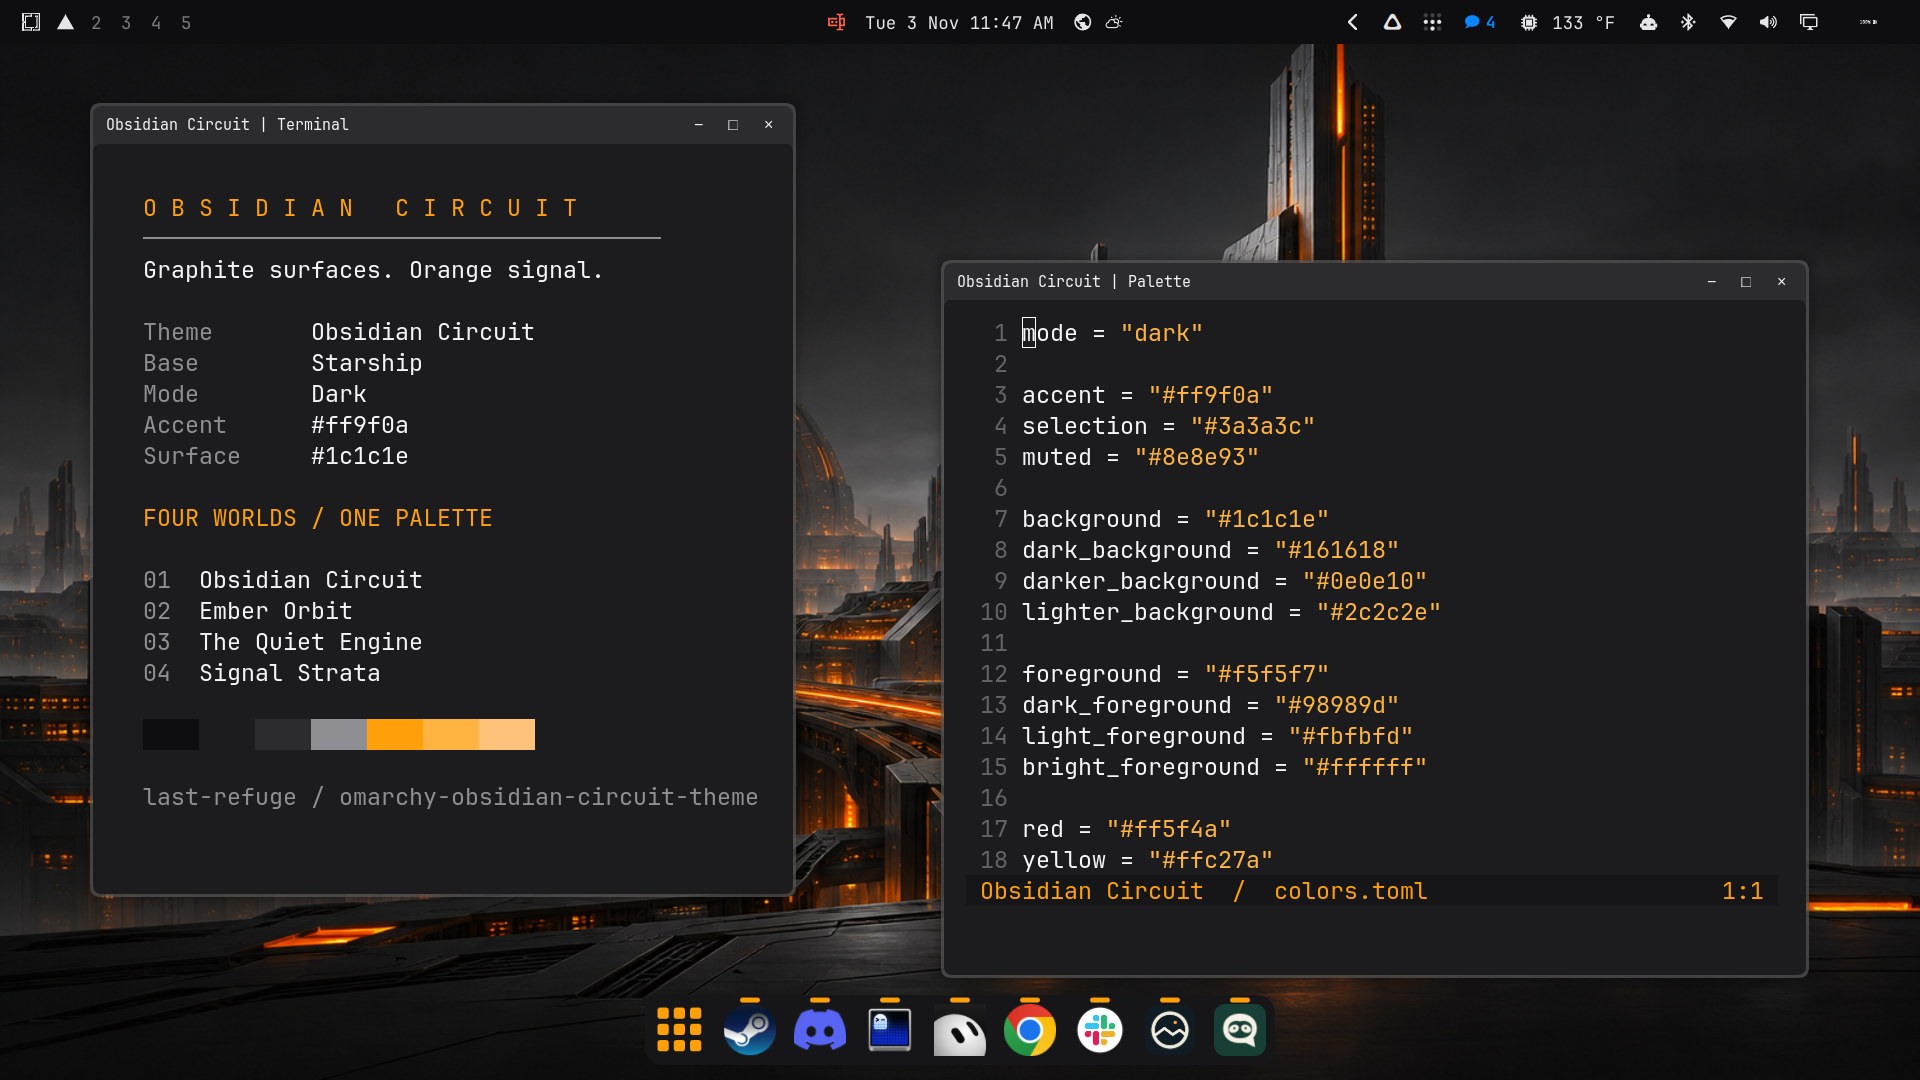
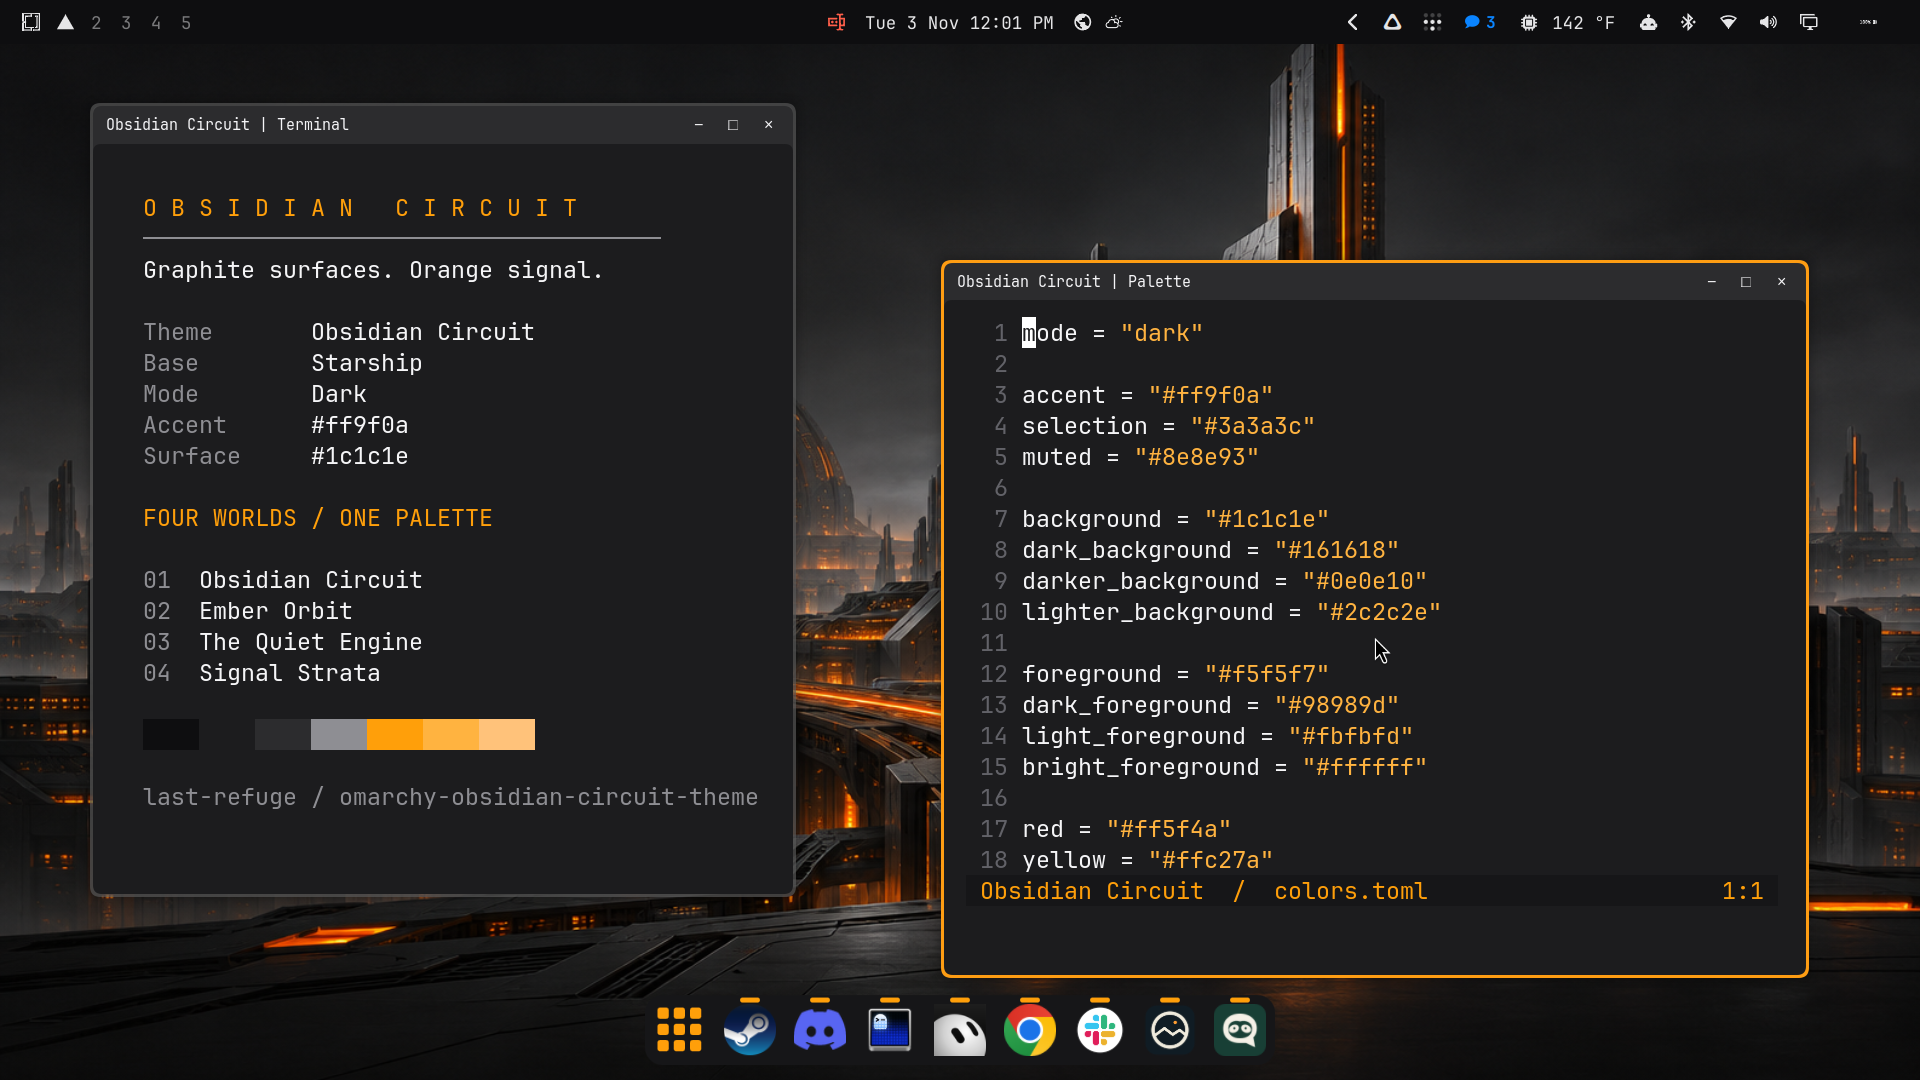
Show orange active-window border in theme preview

Changed region(s): [[0.5312, 0.3056, 0.5625, 0.3361], [0.5, 0.0, 0.5312, 0.0306]]

diff --git a/docs/VALIDATION.md b/docs/VALIDATION.md
@@ -26,8 +26,8 @@ The patch passes a dry run with `--fuzz=0`, applies exactly to the base, produce
 
 ## Preview
 
-`preview.png` is a 1920 × 1080 capture from a temporary virtual display in a real running Omarchy/Hyprland session. The display contained only a terminal showing theme demonstration content and Neovim showing this repository's palette file. No personal windows, cursor, or notification are present. The screenshot includes the optional dock styling.
+`preview.png` is a 1920 × 1080 capture from a temporary virtual display in a real running Omarchy/Hyprland session. The display contained only a terminal showing theme demonstration content and Neovim showing this repository's palette file. No personal windows or notifications are present. Neovim is focused to show the theme's orange active-window border. The screenshot includes the optional dock styling.
 
-The gallery copy is 1200 × 675, WebP quality 80, stripped of metadata, and 59,840 bytes. The original-resolution screenshot is also stripped of metadata. The temporary preview windows and display were removed after capture.
+The gallery copy is 1200 × 675, WebP quality 80, stripped of metadata, and 59,944 bytes. The original-resolution screenshot is also stripped of metadata. The temporary preview windows and display were removed after capture.
 
 Gallery instructions checked: https://github.com/omacom/omarchy-site#adding-your-theme

diff --git a/README.md b/README.md
@@ -4,7 +4,7 @@ A dark [Omarchy](https://omarchy.org/) theme with graphite surfaces, bright oran
 
 ![Obsidian Circuit on an Omarchy desktop](preview.png)
 
-Desktop preview with the optional dock styling enabled.
+Desktop preview showing the orange active-window border and optional dock styling.
 
 The palette builds on Omarchy's **Starship** theme. Obsidian Circuit adds custom shell surfaces and a collection of AI-generated science-fiction artwork. The top bar has a solid near-black background with no edge border. Menus use charcoal surfaces and orange selection accents.
 
